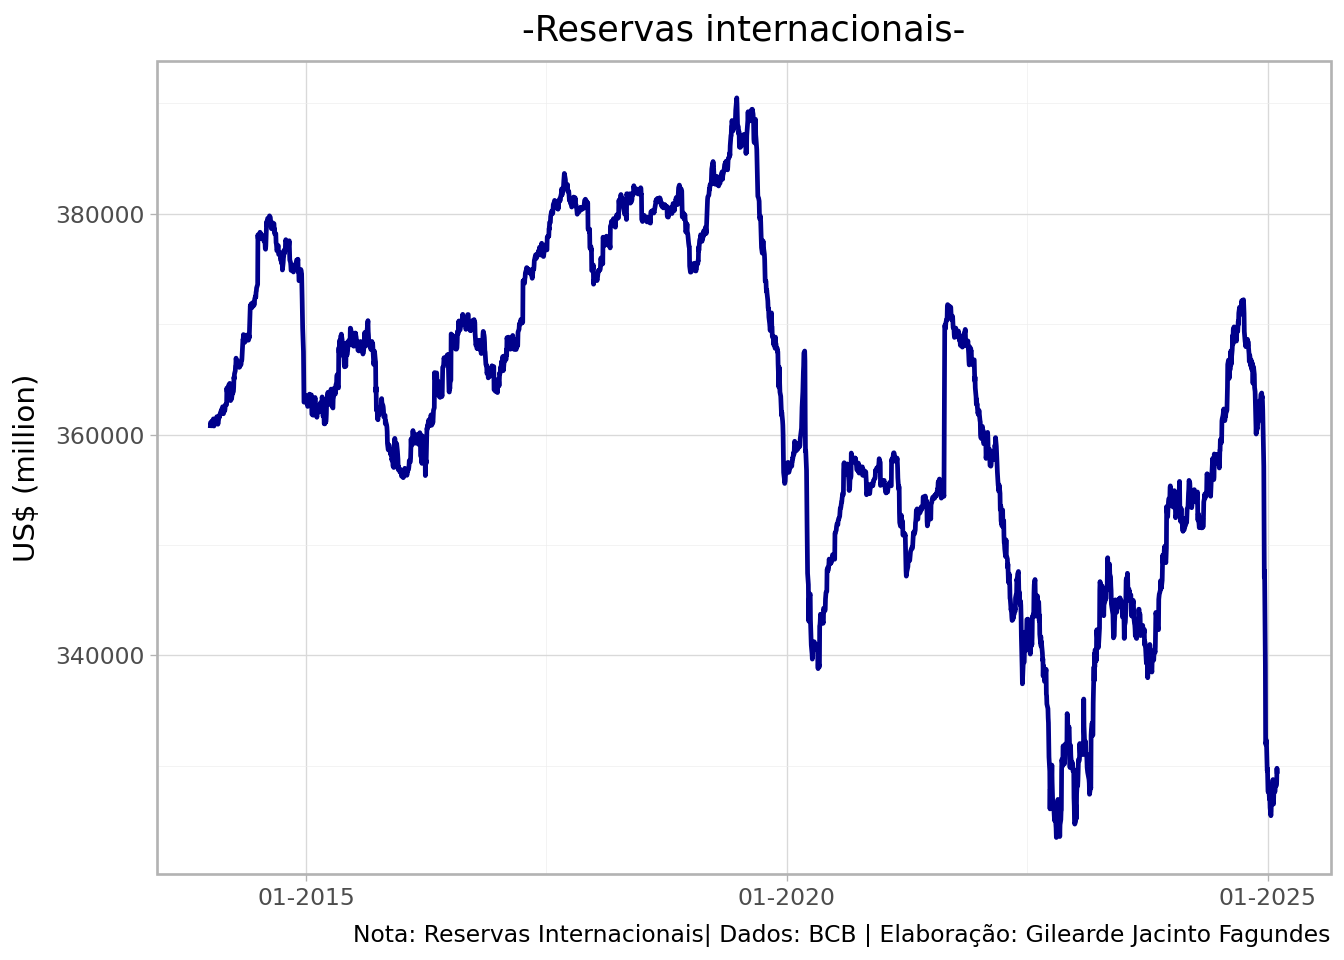
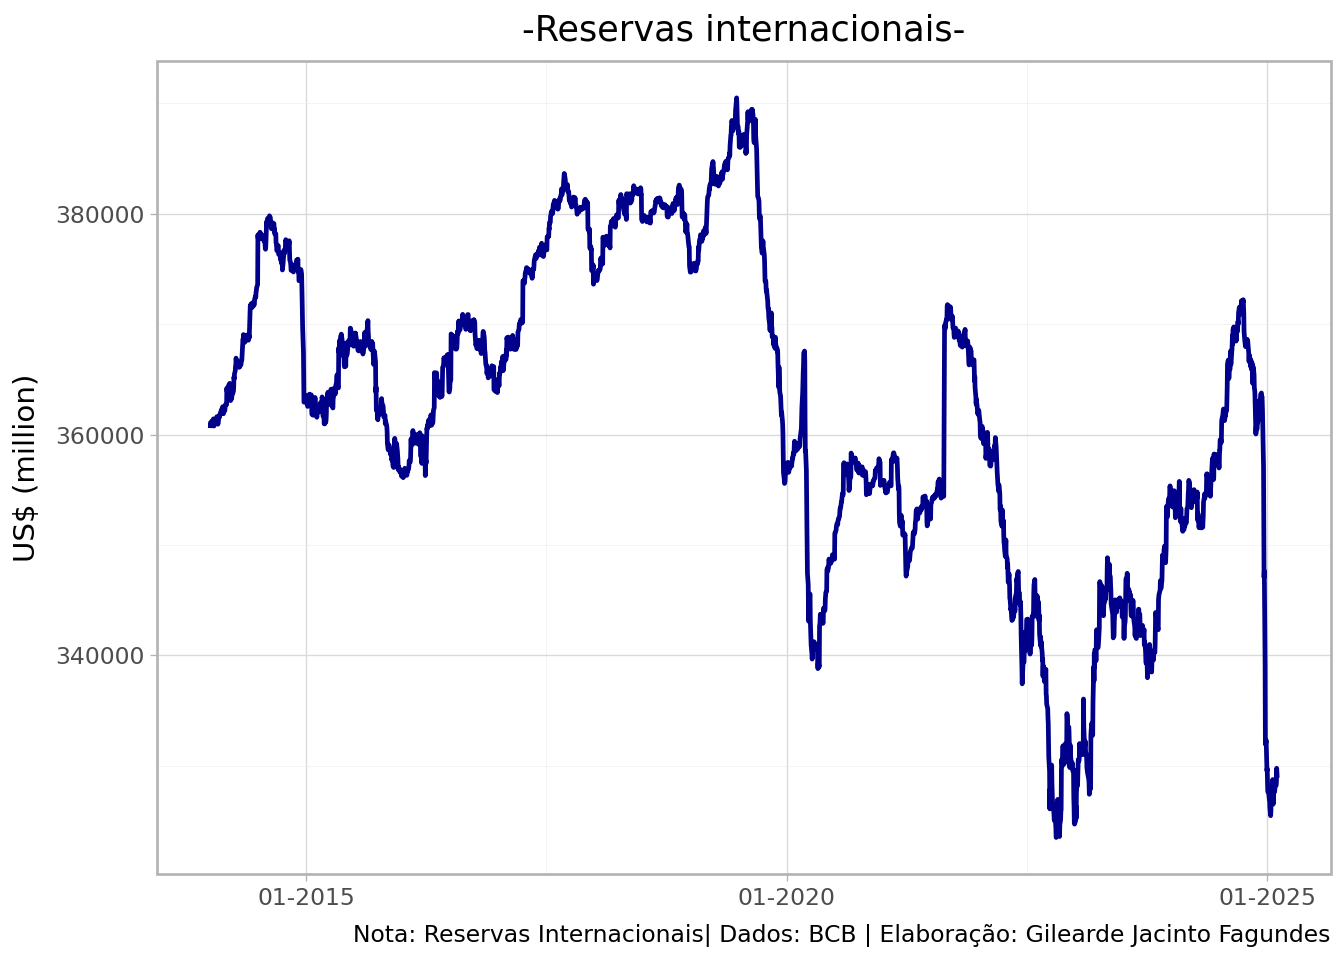
Atualização de relatorio e dashboard

diff --git a/relatorio/relatorio.html b/relatorio/relatorio.html
@@ -107,14 +107,14 @@ pre > code.sourceCode > span > a:first-child::before { text-decoration: underlin
 
 
 <p>Dados coletados da API do Banco Central do Brasil.</p>
-<div id="1c1e570c" class="cell" data-execution_count="1">
+<div id="b839aafa" class="cell" data-execution_count="1">
 <div class="sourceCode cell-code" id="cb1"><pre class="sourceCode python code-with-copy"><code class="sourceCode python"><span id="cb1-1"><a href="#cb1-1" aria-hidden="true" tabindex="-1"></a><span class="co"># Import Librarys</span></span>
 <span id="cb1-2"><a href="#cb1-2" aria-hidden="true" tabindex="-1"></a><span class="im">from</span> bcb <span class="im">import</span> sgs</span>
 <span id="cb1-3"><a href="#cb1-3" aria-hidden="true" tabindex="-1"></a><span class="im">import</span> pandas <span class="im">as</span> pd</span>
 <span id="cb1-4"><a href="#cb1-4" aria-hidden="true" tabindex="-1"></a><span class="im">import</span> plotnine <span class="im">as</span> p9</span></code><button title="Copy to Clipboard" class="code-copy-button"><i class="bi"></i></button></pre></div>
 </div>
 <p>Utilização da library SGS/BCB:</p>
-<div id="9f5d404d" class="cell" data-execution_count="2">
+<div id="3eeb83c0" class="cell" data-execution_count="2">
 <div class="sourceCode cell-code" id="cb2"><pre class="sourceCode python code-with-copy"><code class="sourceCode python"><span id="cb2-1"><a href="#cb2-1" aria-hidden="true" tabindex="-1"></a><span class="co"># Collect data</span></span>
 <span id="cb2-2"><a href="#cb2-2" aria-hidden="true" tabindex="-1"></a>dados <span class="op">=</span> sgs.get(</span>
 <span id="cb2-3"><a href="#cb2-3" aria-hidden="true" tabindex="-1"></a>    codes<span class="op">=</span>{<span class="st">"reserva"</span>: <span class="dv">13621</span>},</span>
@@ -123,7 +123,7 @@ pre > code.sourceCode > span > a:first-child::before { text-decoration: underlin
 <span id="cb2-6"><a href="#cb2-6" aria-hidden="true" tabindex="-1"></a>)</span></code><button title="Copy to Clipboard" class="code-copy-button"><i class="bi"></i></button></pre></div>
 </div>
 <p>Os dados brutos obtidos no SGS/BCB são exibidos abaixo:</p>
-<div id="16d09087" class="cell" data-execution_count="3">
+<div id="ba3331e6" class="cell" data-execution_count="3">
 <div class="sourceCode cell-code" id="cb3"><pre class="sourceCode python code-with-copy"><code class="sourceCode python"><span id="cb3-1"><a href="#cb3-1" aria-hidden="true" tabindex="-1"></a>dados</span></code><button title="Copy to Clipboard" class="code-copy-button"><i class="bi"></i></button></pre></div>
 <div class="cell-output cell-output-display" data-execution_count="3">
 <div>
@@ -166,37 +166,37 @@ pre > code.sourceCode > span > a:first-child::before { text-decoration: underlin
 <td>...</td>
 </tr>
 <tr class="odd">
-<td data-quarto-table-cell-role="th">2025-01-31</td>
-<td>328303</td>
-</tr>
-<tr class="even">
 <td data-quarto-table-cell-role="th">2025-02-03</td>
 <td>328200</td>
 </tr>
-<tr class="odd">
+<tr class="even">
 <td data-quarto-table-cell-role="th">2025-02-04</td>
 <td>328516</td>
 </tr>
-<tr class="even">
+<tr class="odd">
 <td data-quarto-table-cell-role="th">2025-02-05</td>
 <td>329765</td>
 </tr>
-<tr class="odd">
+<tr class="even">
 <td data-quarto-table-cell-role="th">2025-02-06</td>
 <td>329258</td>
+</tr>
+<tr class="odd">
+<td data-quarto-table-cell-role="th">2025-02-07</td>
+<td>328905</td>
 </tr>
 </tbody>
 </table>
 
-<p>2787 rows × 1 columns</p>
+<p>2788 rows × 1 columns</p>
 </div>
 </div>
 </div>
 <p>Valores e datas da maxima e minima das Reservas Internacionais Totais:</p>
-<div id="8dca2e69" class="cell" data-execution_count="4">
+<div id="d1942f59" class="cell" data-execution_count="4">
 <div class="sourceCode cell-code" id="cb4"><pre class="sourceCode python code-with-copy"><code class="sourceCode python"><span id="cb4-1"><a href="#cb4-1" aria-hidden="true" tabindex="-1"></a>dados <span class="op">=</span> dados.assign(data <span class="op">=</span> dados.index)</span></code><button title="Copy to Clipboard" class="code-copy-button"><i class="bi"></i></button></pre></div>
 </div>
-<div id="3e7681a1" class="cell" data-execution_count="5">
+<div id="cbb6e7b8" class="cell" data-execution_count="5">
 <div class="sourceCode cell-code" id="cb5"><pre class="sourceCode python code-with-copy"><code class="sourceCode python"><span id="cb5-1"><a href="#cb5-1" aria-hidden="true" tabindex="-1"></a>menor_valor <span class="op">=</span> dados.reserva.<span class="bu">min</span>() </span>
 <span id="cb5-2"><a href="#cb5-2" aria-hidden="true" tabindex="-1"></a>data_menor_valor <span class="op">=</span> dados.reserva.idxmin().date()</span>
 <span id="cb5-3"><a href="#cb5-3" aria-hidden="true" tabindex="-1"></a>maior_valor<span class="op">=</span>dados.reserva.<span class="bu">max</span>()</span>
@@ -208,7 +208,7 @@ pre > code.sourceCode > span > a:first-child::before { text-decoration: underlin
 </div>
 </div>
 <p>Gráfico de linha com a série das Reservas Internacionais Totais:</p>
-<div id="9f3c3ee0" class="cell" data-execution_count="6">
+<div id="69ae6f13" class="cell" data-execution_count="6">
 <div class="sourceCode cell-code" id="cb7"><pre class="sourceCode python code-with-copy"><code class="sourceCode python"><span id="cb7-1"><a href="#cb7-1" aria-hidden="true" tabindex="-1"></a><span class="co"># Line Graph</span></span>
 <span id="cb7-2"><a href="#cb7-2" aria-hidden="true" tabindex="-1"></a>chart<span class="op">=</span>p9.ggplot(data <span class="op">=</span> dados) <span class="op">+\</span></span>
 <span id="cb7-3"><a href="#cb7-3" aria-hidden="true" tabindex="-1"></a>  p9.aes(x <span class="op">=</span> <span class="st">"data"</span>, y <span class="op">=</span> <span class="st">"reserva"</span>) <span class="op">+\</span></span>
@@ -222,7 +222,7 @@ pre > code.sourceCode > span > a:first-child::before { text-decoration: underlin
 <span id="cb7-11"><a href="#cb7-11" aria-hidden="true" tabindex="-1"></a>    ) <span class="op">+\</span></span>
 <span id="cb7-12"><a href="#cb7-12" aria-hidden="true" tabindex="-1"></a>  p9.theme_light()</span></code><button title="Copy to Clipboard" class="code-copy-button"><i class="bi"></i></button></pre></div>
 </div>
-<div id="a95ca502" class="cell" data-execution_count="7">
+<div id="fb0dab96" class="cell" data-execution_count="7">
 <div class="sourceCode cell-code" id="cb8"><pre class="sourceCode python code-with-copy"><code class="sourceCode python"><span id="cb8-1"><a href="#cb8-1" aria-hidden="true" tabindex="-1"></a>chart</span></code><button title="Copy to Clipboard" class="code-copy-button"><i class="bi"></i></button></pre></div>
 <div class="cell-output cell-output-display">
 <div>
